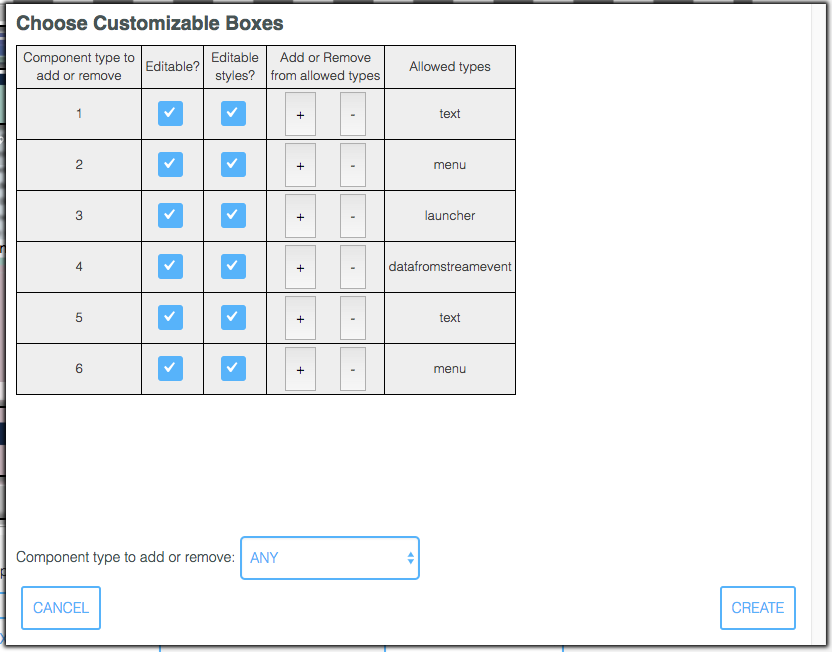
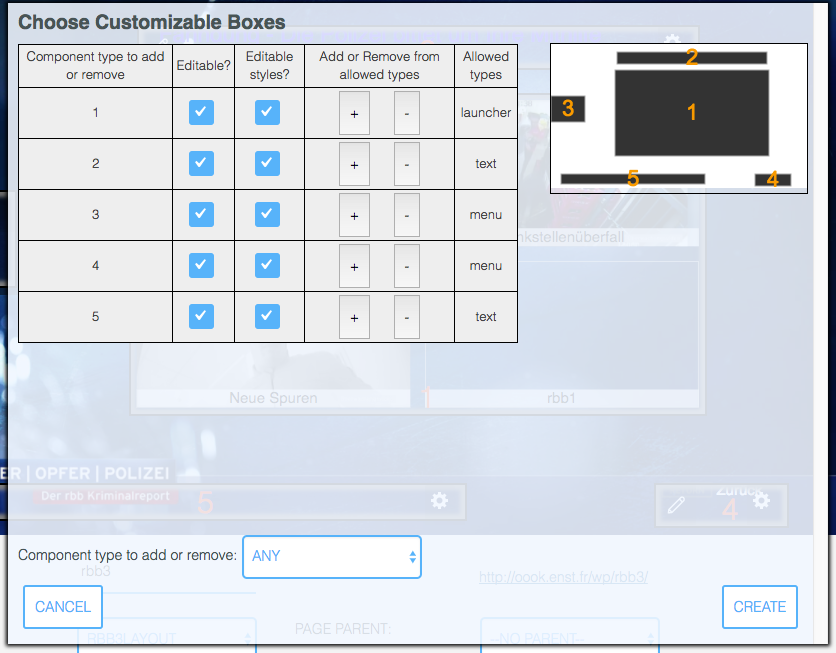
update page models doc

diff --git a/10_using_pagemodels.md b/10_using_pagemodels.md
@@ -15,11 +15,21 @@ changed.
 Once you have decided all this, press the button "Create Model from Page", and in the popup
 answer the questions:
 
-* which box can be edited
-* which box can be styled
+* which box can be edited (check box in the "Editable?" column)
+* which box can be styled (check box in the "Editable styles?" column)
 * what are the allowed types for each editable box
 
-When you are finished, in the popup, press "Create".
+The currently allowed types for each box is specified in the rightmost column.
+To remove a type from the rightmost column, select that type in the selector below titled 
+"Component type to add or remove", then press the minus ("-") button of the same line.
+To add a type to the rightmost column, select that type in the selector below titled 
+"Component type to add or remove", then press the plus ("+") button of the same line.
+The type "ANY" is all "absorbing": adding ANY removes all other more specific types.
+
+On the right of the table is a sketch of the layout with box placement, size and number.
+
+When you are finished, in the popup, press the "Create" button in the lower right, or "Cancel"
+in the lower left.
 A new Page Model with the name of the Page suffixed with "_pm" is created.
 
 The Page Model created from a Page takes a copy of the Page at the time of its creation.
